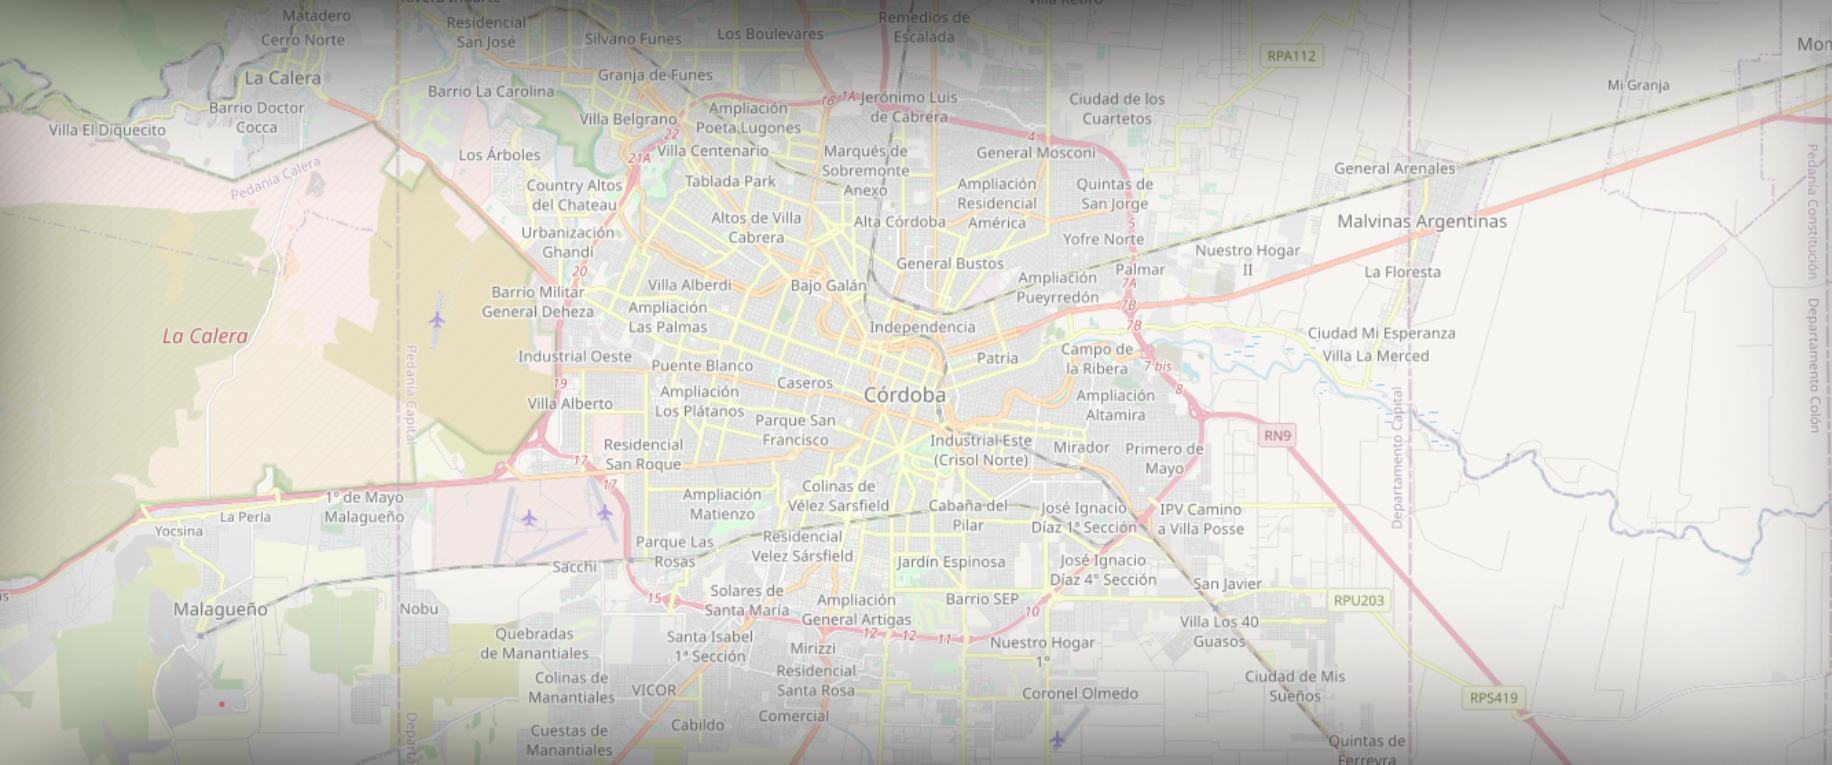
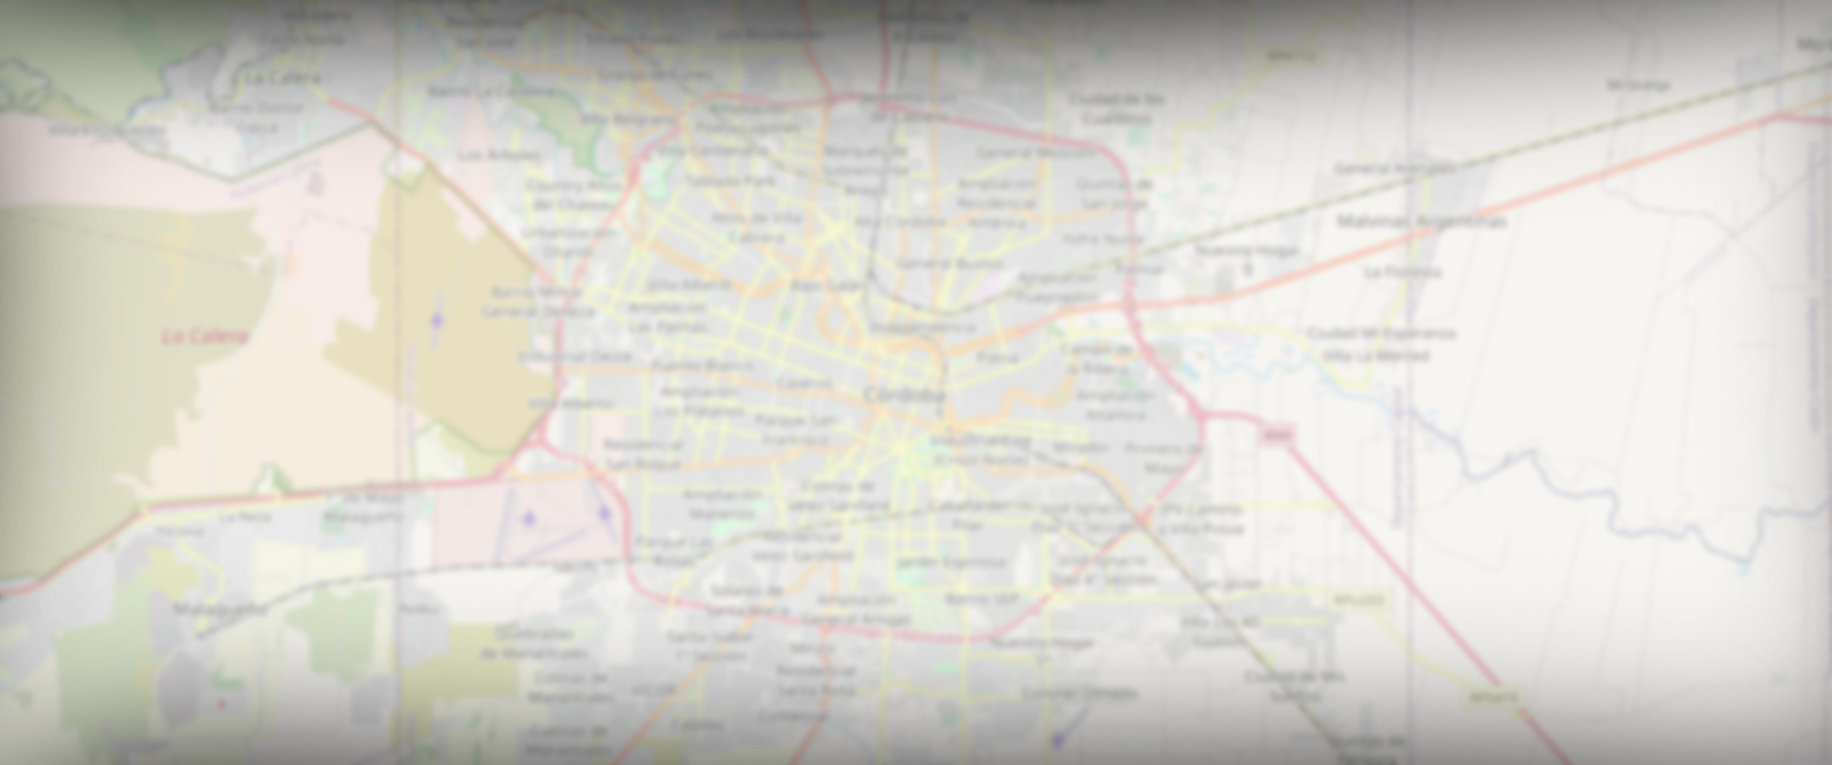
landingPage v0.4

diff --git a/app/landingPage/page.tsx b/app/landingPage/page.tsx
@@ -2,19 +2,19 @@ import React from 'react'
 
 const items=[
   {
-    title: '¿Qué hace Tenés fuego?',
-    subtitle: 'Trabajamos en conjunto con FIRMS (fire information for resource management system) un sistema de la NASA que monitorea posibles incendios forestales. Los satélites MODIS y VIIRS logran escanear la superficie terrestre cada 3 horas. De estos escaneos se generan píxeles sobre el mapa terráqueo, que representan anomalías térmicas (un punto donde la temperatura, el brillo y otros factores son considerados anormales y son relacionados a un incendio) determinadas por una serie de datos tratados algorítmicamente. Estos aparecen como cuadrados rojos dónde es posible, en mayor o menor medida, que un incendio se esté llevando a cabo al momento del escaneo.',
+    title: 'What does You have fire do?',
+    subtitle: "We work together with FIRMS (fire information for resource management system), a NASA system that monitors possible forest fires. The MODIS and VIIRS satellites manage to scan the Earth's surface every 3 hours. From these scans, pixels are generated on the Earth map, which represent thermal anomalies (a point where temperature, brightness and other factors are considered abnormal and are related to a fire) determined by a series of data processed algorithmically. These appear as red squares where it is possible, to a greater or lesser extent, that a fire is taking place at the time of the scan.",
     urlImg: './imagen1.png'
   },
   {
-    title: '¿Qué tan precisa es la plataforma?',
-    subtitle: 'El tamaño de estos incendios varía entre grandes, con áreas de hasta un kilómetro o hasta 50 metros en condiciones óptimas. Los píxeles sólo indican un área máxima, el fuego suele cubrir menos terreno y estar próximo al centro del recuadro rojo. Hay varias razones por las que MODIS o VIIRS pueden no haber detectado un incendio: el mismo puede haber comenzado y terminado entre observaciones satelitales; la cobertura de nubes, el humo denso o las copas de los árboles pueden oscurecer completamente un incendio; ocasionalmente los instrumentos no funcionan y no pueden observar nada durante estos momentos.',
-    urlImg: ''
+    title: 'How accurate is the platform?',
+    subtitle: "The size of these fires varies between large, with areas of up to one kilometer or up to 50 meters in optimal conditions. The pixels only indicate a maximum area, the fire usually covers less ground and is close to the center of the red box. There are several reasons why MODIS or VIIRS may not have detected a fire: it may have started and ended between satellite observations; cloud cover, heavy smoke, or tree canopy can completely obscure a fire; occasionally the instruments do not work and they cannot observe anything during these times.",
+    urlImg: './imagen3.png'
   },
   {
-    title: 'Participá y colaborá ',
-    subtitle: 'En ¿Tenés fuego? podés dejar comentarios sobre los posibles focos de incendio. Puede que los satélites estén detectando una anomalía que corresponde en realidad una situación normal. Proponemos que vos, como ciudadano o institución, corrobores estos hechos y detalles si se tratan de incendios u otro tipo de evento. Los usuarios pueden dejar comentarios en las anomalías y otros, las instituciones corroboradas, pueden también confirmar o negar estos comentarios. Así, con el apoyo de la población, se podrá hacer un mapeo de la situación cercana de cada uno y complementar la información de rigor de la NASA con conocimiento local.',
-    urlImg: ''
+    title: 'Participate and collaborate',
+    subtitle: "In Do you have a fire? You can leave comments about possible fire sources. The satellites may be detecting an anomaly that is actually a normal situation. We propose that you, as a citizen or institution, corroborate these facts and details if they are fires or another type of event. Users can leave comments on anomalies and others, corroborated institutions, can also confirm or deny these comments. Thus, with the support of the population, it will be possible to map the immediate situation of each person and complement the necessary information from NASA with local knowledge.",
+    urlImg: './imagen2.png'
   }
 ]
 
@@ -24,25 +24,25 @@ export default function landingPage() {
   return (
     <>
       <header className='background-container bg-cover bg-center bg-no-repeat' style={{ backgroundImage: "url('./fondo1.png')" }}>
-      <div className="text-center flex flex-col items-center	 h-screen gap-6 p-40"
-       style={{backdropFilter:' blur(3px)'}}>
-        <h1 className=" text-3xl font-extrabold tracking-[-0.04em] text-black sm:text-5xl sm:leading-[3.5rem]">¿Tenés fuego?</h1>
-        <p className=' text-base text-gray-700  leading-7 text-slate-600s'>¿Tenés fuego? Es una plataforma de participación comunitaria donde colaboramos con información de la NASA para corroborar los datos de puntos calientes que reportan sus satélites.</p>
-        <button className='w-[300px] px-10 py-2 text-gray-200 bg-purple-600 rounded-full shadow-md text-lg hover:bg-gray-800 hover:border-red'>IR AL MAPA</button>
-      
-      </div>
+        <div className="text-center flex flex-col items-center h-screen gap-6 p-40">
+          <img className='w-[200px]' src='./logo.png' alt='img' />
+          <h1 className=" text-3xl font-extrabold tracking-[-0.04em] text-black sm:text-5xl sm:leading-[3.5rem]">Do you have fire?</h1>
+          <p className=' text-base text-gray-700  leading-7 text-slate-600s  text-lg'>Do you have fire? It is a community participation platform where we collaborate with information from NASA to corroborate the hot spot data reported by its satellites.</p>
+          <button className='w-[300px] px-10 py-2 text-gray-200 bg-purple-600 rounded-full shadow-md text-lg hover:bg-gray-800 hover:border-red'>VIEW MAP</button>
+
+        </div>
       </header>
       <main>
         {items.map(item => {
-          return <article className=' flex flex-col	justify-center alin-items-center gap-6 w-full min-h-screen flex flex-col justify-center items-center bg-blue-900 py-12 px-20 text-center'> 
-                  <h2 className='text-[20pt] font-semibold leading-6 text-slate-100 '>{item.title}</h2>
-                  <img className='w-[60%]' src={item.urlImg} alt='img' />
-                  <p className='mt-2 text-sm leading-6 text-slate-200'>{item.subtitle}</p>
-                </article>
+          return <article className=' flex flex-col	justify-center alin-items-center gap-6 w-full min-h-screen flex flex-col justify-center items-center  bg-gradient-to-r from-blue-900 via-purple-900 to-pink-900 py-12 px-20 text-center'>
+            <h2 className='text-[20pt] font-semibold leading-6 text-slate-100 '>{item.title}</h2>
+            <img className='w-[40%]' src={item.urlImg} alt='img' />
+            <p className='mt-2 text-sm leading-6 text-slate-200'>{item.subtitle}</p>
+          </article>
         })}
       </main>
       <footer className="w-full p-5 flex flex-col justify-center items-center bg-gray-800">
-        <p>ⓒ No-Copyright - Proyecto SpaceApps - TERRAMIDA</p>
+        <p>ⓒ No-Copyright - Proyect for SpaceApps - TERRAMIDA</p>
       </footer>
     </>
   )
